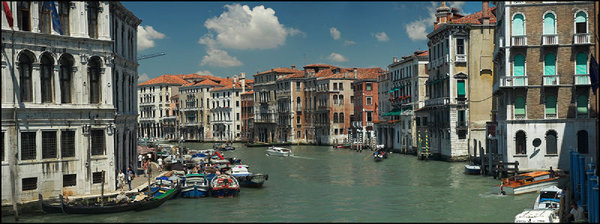
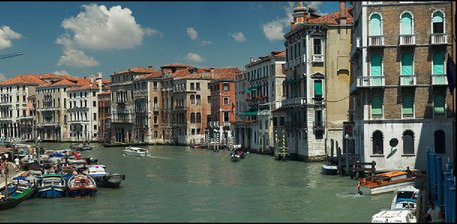
Final fix

diff --git a/style2ass.css b/style2ass.css
@@ -1,7 +1,7 @@
 /*COMMON*/
 body {
 	margin: 0;
-    background-color: antiquewhite;
+  background-color: antiquewhite;
 	background-repeat: no-repeat;
 	background-size: cover;
 	font-family: "Lucida Sans Unicode", "Lucida Grande", sans-serif;
@@ -172,13 +172,13 @@ form #message {
         float:left;
     }
 
-    nav, aside, main {
-        margin: 0 0.5em;
+    nav, aside, main, header {
+        margin: 0 0.3em;
     }
 
     header {
         text-align: center;
-        background: antiquewhite url(./panoramica-400.jpg) center no-repeat;
+        background: grey url(./panoramica-400.jpg) center no-repeat;
     }
 
     /*Responsive navigation*/
@@ -253,7 +253,7 @@ form #message {
 
     header {
         text-align: center;
-        background: antiquewhite url(./panoramica-400.jpg) center no-repeat;
+        background: antiquewhite url(./panoramica-600.jpg) center no-repeat;
     }
 
 }
@@ -298,7 +298,7 @@ form #message {
     
     header {
         width: 100%;
-         background: antiquewhite url(./panoramica-600.jpg) center no-repeat;
+         background: antiquewhite url(./panoramica-800.jpg) center no-repeat;
     }
 
     nav, aside {

diff --git a/index.html b/index.html
@@ -5,14 +5,15 @@
     <meta name="viewport" content="width=device-width,initial-scale=1.0">
     <title>Homepage</title>
     <script>document.cookie='resolution='+Math.max(screen.width,screen.height)+("devicePixelRatio" in window ? ","+devicePixelRatio : ",1")+'; path=/';</script>
-    <!--[if lt IE 9 & !IEMobile]>
-        <link rel="stylesheet" href="style.css">
+
+     <link rel="stylesheet" type="text/css" href="style2ass.css" />
+    <!--[if IE]>
+      <link rel="stylesheet" href="style.css" type="text/css" />
     <![endif]-->
-     
-    <link rel="stylesheet" type="text/css" href="style2ass.css" />
+
     
 </head>
-<body>
+<body>   
     <div id="wrapper">    
         <header role="banner">
             <div id="header">

diff --git a/style.css b/style.css
@@ -8,6 +8,12 @@ body {
    	font-size: 100%;
 }
 
+#header {
+    width: 100%;
+    text-align: center;
+    background: antiquewhite url(./panoramica-800.jpg) center no-repeat;
+}
+
 #header h1 {
 	text-transform: uppercase;
 	color: white;
@@ -168,21 +174,19 @@ body {
     margin: 0 2em;
 }
 
- header, nav, aside, main {
+body {
+    margin: 0 2em;
+}
+    
+#header, #nav, #aside, #main {
     float: left;
 }
-
-header {
-    width: 100%;
-    text-align: center;
-    background: antiquewhite url(./panoramica-800.jpg) center no-repeat;
-}
-
-nav, aside {
+    
+#nav, #aside {
     width: 25%;
 }
 
-main {
+#main {
     width: 45%;
     margin:0 1em;
 }

diff --git a/contact.html b/contact.html
@@ -6,11 +6,10 @@
     <title>Contact</title>
     <script>
         document.cookie='resolution='+Math.max(screen.width,screen.height)+("devicePixelRatio" in window ? ","+devicePixelRatio : ",1")+'; path=/';             </script>
-    <!--[if lt IE 9 & !IEMobile]>
-        <link rel="stylesheet" href="style.css">
+     <link rel="stylesheet" type="text/css" href="style2ass.css" />
+    <!--[if IE]>
+      <link rel="stylesheet" href="style.css" type="text/css" />
     <![endif]-->
-     
-    <link rel="stylesheet" type="text/css" href="style2ass.css" />
     
 </head>
 <body>

diff --git a/prices.html b/prices.html
@@ -6,11 +6,10 @@
     <title>Prices</title>
     <script>
         document.cookie='resolution='+Math.max(screen.width,screen.height)+("devicePixelRatio" in window ? ","+devicePixelRatio : ",1")+'; path=/';             </script>
-    <!--[if lt IE 9 & !IEMobile]>
-        <link rel="stylesheet" href="style.css">
+     <link rel="stylesheet" type="text/css" href="style2ass.css" />
+    <!--[if IE]>
+      <link rel="stylesheet" href="style.css" type="text/css" />
     <![endif]-->
-     
-    <link rel="stylesheet" type="text/css" href="style2ass.css" />
     
 </head>
 <body>

diff --git a/rooms.html b/rooms.html
@@ -6,11 +6,10 @@
     <title>Rooms</title>
     <script>
         document.cookie='resolution='+Math.max(screen.width,screen.height)+("devicePixelRatio" in window ? ","+devicePixelRatio : ",1")+'; path=/';             </script>
-    <!--[if lt IE 9 & !IEMobile]>
-        <link rel="stylesheet" href="style.css">
+     <link rel="stylesheet" type="text/css" href="style2ass.css" />
+    <!--[if IE]>
+      <link rel="stylesheet" href="style.css" type="text/css" />
     <![endif]-->
-     
-    <link rel="stylesheet" type="text/css" href="style2ass.css" />
     
 </head>
 <body>
